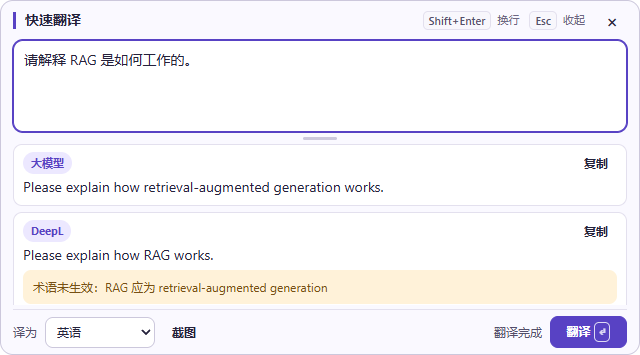
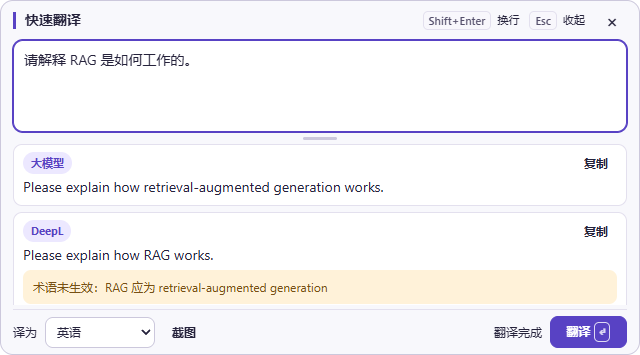
Preserve the quick translation panel translucency

diff --git a/src/quickbar/quickbar.css b/src/quickbar/quickbar.css
@@ -8,7 +8,8 @@ html, body { background: transparent; }
   overflow: hidden;
   border: 1px solid var(--border);
   border-radius: 13px;
-  background: var(--float-bg);
+  background: color-mix(in srgb, var(--bg) 60%, transparent);
+  backdrop-filter: blur(10px);
 }
 .quickbar-head, .toolbar { display: flex; flex: 0 0 auto; align-items: center; gap: 8px; }
 .quickbar-head { min-height: 39px; cursor: move; }
@@ -19,7 +20,7 @@ html, body { background: transparent; }
   font-size: 14px;
   line-height: 1.2;
 }
-.shortcuts { display: flex; flex: 1; justify-content: flex-end; align-items: center; gap: 6px; color: var(--text-faint); font-size: 11px; }
+.shortcuts { display: flex; flex: 1; justify-content: flex-end; align-items: center; gap: 6px; color: var(--text); font-size: 11px; }
 .shortcuts span { margin-right: 4px; }
 button.close { width: 30px; padding: 0; font-size: 18px; line-height: 1; }
 
@@ -73,7 +74,7 @@ button.close { width: 30px; padding: 0; font-size: 18px; line-height: 1; }
   border-top: 1px solid var(--border-soft);
   cursor: move;
 }
-.language-label, .status { color: var(--text-dim); font-size: 12px; }
+.language-label, .status { color: var(--text); font-size: 12px; }
 .toolbar select { width: 110px; min-height: 31px; padding: 3px 7px; font-size: 12px; }
 .status { flex: 1; text-align: right; }
 .submit { min-height: 31px; min-width: 77px; }
